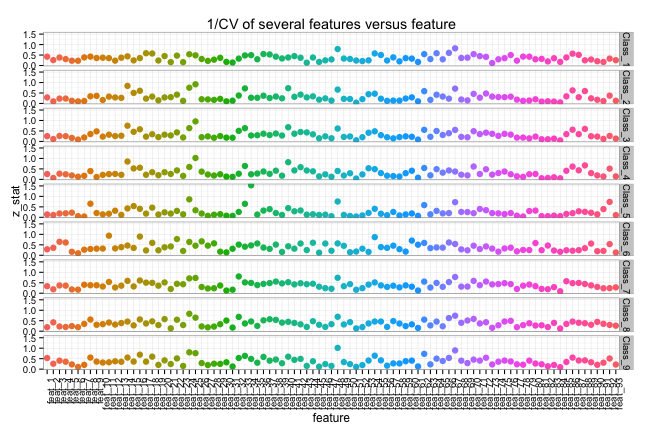
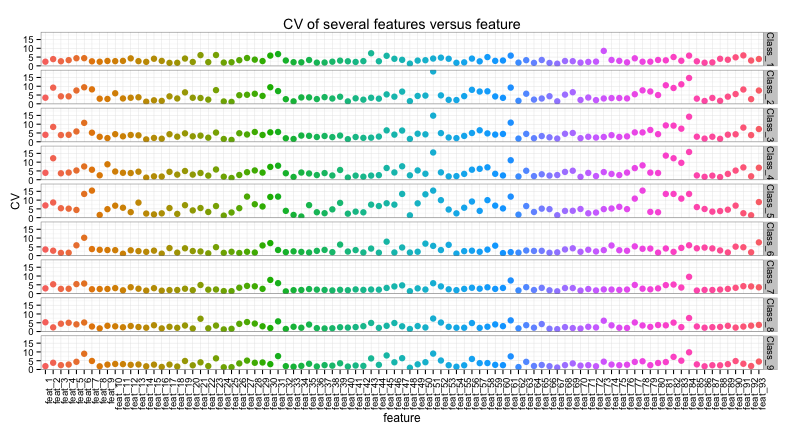
Working thru exploratory

Changed region(s): [[0.0, 0.0301, 0.9877, 0.9931]]

diff --git a/Exploratory Slide Summary.md b/Exploratory Slide Summary.md
@@ -1,0 +1,232 @@
+Product Classification
+========================================================
+transition: rotate
+  
+  
+<br>  
+<br>  
+_Winston Saunders_   
+_April 22, 2015_  
+__Exploratory Summary__
+ 
+
+ <br>
+<small>R version 3.2.0 (2015-04-16)</small>
+
+***
+<br>  
+<br>  
+![alt text](tactical.001.jpg)
+
+
+Grabbing the data
+========================================================
+
+
+
+Data are stored locally on my computer in the directory .
+The train data set has 61878 rows and 95 columns. Here is a sample of a few rows and columns. The target column has 9 classifiers.  
+<small>
+<!-- html table generated in R 3.2.0 by xtable 1.7-4 package -->
+<!-- Thu Apr 30 17:10:51 2015 -->
+<table border=1>
+<tr> <th> id </th> <th> feat_1 </th> <th> feat_2 </th> <th> feat_3 </th> <th> feat_4 </th> <th> feat_5 </th> <th> feat_92 </th> <th> feat_93 </th> <th> target </th>  </tr>
+  <tr> <td align="right">   1 </td> <td align="right">   1 </td> <td align="right">   0 </td> <td align="right">   0 </td> <td align="right">   0 </td> <td align="right">   0 </td> <td align="right">   0 </td> <td align="right">   0 </td> <td> Class_1 </td> </tr>
+  <tr> <td align="right">   2 </td> <td align="right">   0 </td> <td align="right">   0 </td> <td align="right">   0 </td> <td align="right">   0 </td> <td align="right">   0 </td> <td align="right">   0 </td> <td align="right">   0 </td> <td> Class_1 </td> </tr>
+  <tr> <td align="right">   3 </td> <td align="right">   0 </td> <td align="right">   0 </td> <td align="right">   0 </td> <td align="right">   0 </td> <td align="right">   0 </td> <td align="right">   0 </td> <td align="right">   0 </td> <td> Class_1 </td> </tr>
+  <tr> <td align="right">   4 </td> <td align="right">   1 </td> <td align="right">   0 </td> <td align="right">   0 </td> <td align="right">   1 </td> <td align="right">   6 </td> <td align="right">   0 </td> <td align="right">   0 </td> <td> Class_1 </td> </tr>
+   </table>
+</small>  
+The number of elements in each class is not uniform. 
+<small>   
+<!-- html table generated in R 3.2.0 by xtable 1.7-4 package -->
+<!-- Thu Apr 30 17:10:51 2015 -->
+<table border=1>
+<tr> <th> Class_1 </th> <th> Class_2 </th> <th> Class_3 </th> <th> Class_4 </th> <th> Class_5 </th> <th> Class_6 </th> <th> Class_7 </th> <th> Class_8 </th> <th> Class_9 </th>  </tr>
+  <tr> <td align="right"> 1929 </td> <td align="right"> 16122 </td> <td align="right"> 8004 </td> <td align="right"> 2691 </td> <td align="right"> 2739 </td> <td align="right"> 14135 </td> <td align="right"> 2839 </td> <td align="right"> 8464 </td> <td align="right"> 4955 </td> </tr>
+   </table>
+</small> 
+
+
+
+Create data sample
+========================================================
+To get some data for inspection first create a smaller random sample of rows. This just speeds up calculations. 
+
+
+
+> The sampled train_data has 15000 rows and 95 columns. 
+
+<!-- html table generated in R 3.2.0 by xtable 1.7-4 package -->
+<!-- Thu Apr 30 17:10:51 2015 -->
+<table border=1>
+<tr> <th> id </th> <th> feat_1 </th> <th> feat_2 </th> <th> feat_3 </th> <th> feat_4 </th> <th> feat_5 </th> <th> feat_6 </th> <th> target </th>  </tr>
+  <tr> <td align="right"> 9869 </td> <td align="right">   0 </td> <td align="right">   0 </td> <td align="right">   0 </td> <td align="right">   0 </td> <td align="right">   0 </td> <td align="right">   0 </td> <td> Class_2 </td> </tr>
+  <tr> <td align="right"> 29589 </td> <td align="right">   0 </td> <td align="right">   0 </td> <td align="right">   0 </td> <td align="right">   0 </td> <td align="right">   0 </td> <td align="right">   0 </td> <td> Class_5 </td> </tr>
+  <tr> <td align="right"> 47323 </td> <td align="right">   0 </td> <td align="right">   0 </td> <td align="right">   1 </td> <td align="right">   1 </td> <td align="right">   0 </td> <td align="right">   0 </td> <td> Class_7 </td> </tr>
+  <tr> <td align="right"> 47625 </td> <td align="right">   1 </td> <td align="right">   0 </td> <td align="right">   0 </td> <td align="right">   0 </td> <td align="right">   0 </td> <td align="right">   0 </td> <td> Class_7 </td> </tr>
+   </table>
+
+Histograms of Features
+======================================
+
+What does a specific feat look like? Look at histogram of values for feat\_60 for Class\_6
+
+![plot of chunk unnamed-chunk-7](Exploratory Slide Summary-figure/unnamed-chunk-7-1.png) 
+***
+
+![plot of chunk unnamed-chunk-8](Exploratory Slide Summary-figure/unnamed-chunk-8-1.png) 
+
+
+Munging
+=========================================
+For plotting etc. convert data to a "long" format with each observation, characterized by a target class and feature, in one unique row.
+<small>
+
+```r
+## Get packages
+require(plyr); require(ggplot2); require(tidyr)
+## munge data into long format 
+long_train<-gather(train_data, feature, data, feat_1:feat_93)
+```
+
+Note that the dimension of this new data frame 1395000 is equal to 15000 X (95 - 2).
+
+Here is a sample...   (the table has 1395000 rows)
+<!-- html table generated in R 3.2.0 by xtable 1.7-4 package -->
+<!-- Thu Apr 30 17:10:52 2015 -->
+<table border=1>
+<tr> <th> id </th> <th> target </th> <th> feature </th> <th> data </th>  </tr>
+  <tr> <td align="right"> 9869 </td> <td> Class_2 </td> <td> feat_1 </td> <td align="right">   0 </td> </tr>
+  <tr> <td align="right"> 29589 </td> <td> Class_5 </td> <td> feat_1 </td> <td align="right">   0 </td> </tr>
+  <tr> <td align="right"> 47323 </td> <td> Class_7 </td> <td> feat_1 </td> <td align="right">   0 </td> </tr>
+  <tr> <td align="right"> 47625 </td> <td> Class_7 </td> <td> feat_1 </td> <td align="right">   1 </td> </tr>
+   </table>
+</small>  
+First summary
+============================================
+
+Let's look at the means and std deviations of the features by class....
+
+<small>
+
+```r
+## use ddply to get means and standard deviations
+train_morph<-ddply(long_train, c("target", "feature"), summarize, mean_data = mean(data), sdev_data = sqrt(var(data)))
+## calculate coeff of variation (CV)
+## adding small value to prevent overflow errors
+train_morph$CV<-(train_morph$sdev_data)/(train_morph$mean_data+0.001)
+```
+</small>
+
+Inspect train_morph
+======================================
+
+
+```r
+print(xtable(train_morph[1:6,]), type="html",include.rownames = FALSE)
+```
+
+<!-- html table generated in R 3.2.0 by xtable 1.7-4 package -->
+<!-- Thu Apr 30 17:10:53 2015 -->
+<table border=1>
+<tr> <th> target </th> <th> feature </th> <th> mean_data </th> <th> sdev_data </th> <th> CV </th>  </tr>
+  <tr> <td> Class_1 </td> <td> feat_1 </td> <td align="right"> 0.44 </td> <td align="right"> 1.05 </td> <td align="right"> 2.37 </td> </tr>
+  <tr> <td> Class_1 </td> <td> feat_2 </td> <td align="right"> 0.12 </td> <td align="right"> 0.46 </td> <td align="right"> 3.84 </td> </tr>
+  <tr> <td> Class_1 </td> <td> feat_3 </td> <td align="right"> 0.19 </td> <td align="right"> 0.49 </td> <td align="right"> 2.61 </td> </tr>
+  <tr> <td> Class_1 </td> <td> feat_4 </td> <td align="right"> 0.12 </td> <td align="right"> 0.41 </td> <td align="right"> 3.24 </td> </tr>
+  <tr> <td> Class_1 </td> <td> feat_5 </td> <td align="right"> 0.27 </td> <td align="right"> 1.17 </td> <td align="right"> 4.34 </td> </tr>
+  <tr> <td> Class_1 </td> <td> feat_6 </td> <td align="right"> 0.09 </td> <td align="right"> 0.42 </td> <td align="right"> 4.37 </td> </tr>
+   </table>
+
+Let's inspect
+=========================================
+
+<img src="Exploratory Slide Summary-figure/unnamed-chunk-13-1.png" title="plot of chunk unnamed-chunk-13" alt="plot of chunk unnamed-chunk-13" style="display: block; margin: auto;" />
+
+Here is the CV = sd/mean
+
+<img src="Exploratory Slide Summary-figure/unnamed-chunk-14-1.png" title="plot of chunk unnamed-chunk-14" alt="plot of chunk unnamed-chunk-14" style="display: block; margin: auto;" />
+
+>some variation with class, but high CV means noisy correlations!
+
+Another look at the data: CV for each class
+===================================
+
+<img src="Exploratory Slide Summary-figure/unnamed-chunk-15-1.png" title="plot of chunk unnamed-chunk-15" alt="plot of chunk unnamed-chunk-15" style="display: block; margin: auto;" />
+
+This is beginning to look promising. We can see some variation between classes & features, but overall CV is very high and needs to be reduced.
+
+
+</small>  
+Reducing CV
+============================================
+
+Let's try getting rid of all the data that = 0 (assume 0 is a non-entry)
+
+
+```r
+long_train_nz<-long_train[long_train$data>0,]
+```
+
+the size of the original matrix was 1395000 and the size of the new matrix is 288275. So there were a substantial number of zeros!
+
+
+
+<!-- html table generated in R 3.2.0 by xtable 1.7-4 package -->
+<!-- Thu Apr 30 17:10:56 2015 -->
+<table border=1>
+<tr> <th> target </th> <th> feature </th> <th> mean_data </th> <th> sdev_data </th> <th> CV </th>  </tr>
+  <tr> <td> Class_1 </td> <td> feat_1 </td> <td align="right"> 1.79 </td> <td align="right"> 1.43 </td> <td align="right"> 0.80 </td> </tr>
+  <tr> <td> Class_1 </td> <td> feat_2 </td> <td align="right"> 1.38 </td> <td align="right"> 0.85 </td> <td align="right"> 0.61 </td> </tr>
+  <tr> <td> Class_1 </td> <td> feat_3 </td> <td align="right"> 1.25 </td> <td align="right"> 0.53 </td> <td align="right"> 0.42 </td> </tr>
+  <tr> <td> Class_1 </td> <td> feat_4 </td> <td align="right"> 1.30 </td> <td align="right"> 0.46 </td> <td align="right"> 0.36 </td> </tr>
+   </table>
+
+>Note the substantial reduction in CV
+
+Means and CV for all classes
+=========================================
+
+![plot of chunk unnamed-chunk-19](Exploratory Slide Summary-figure/unnamed-chunk-19-1.png) 
+
+Here is the CV = sd/mean
+
+![plot of chunk unnamed-chunk-20](Exploratory Slide Summary-figure/unnamed-chunk-20-1.png) 
+
+>some variation with class, but reduced CV means less noisy correlations!
+
+CV features for each class
+===================================
+
+<img src="Exploratory Slide Summary-figure/unnamed-chunk-21-1.png" title="plot of chunk unnamed-chunk-21" alt="plot of chunk unnamed-chunk-21" style="display: block; margin: auto;" />
+
+This is beginning to look promising. We can see at least some variation between classes & features (though others are weak)
+
+
+Another look
+==================================
+
+The non-zero data with CV < 1.5 shows fair distinguishing of classes.
+
+<img src="Exploratory Slide Summary-figure/unnamed-chunk-22-1.png" title="plot of chunk unnamed-chunk-22" alt="plot of chunk unnamed-chunk-22" style="display: block; margin: auto;" />
+
+
+
+Decision Tree Class1 vs Class2 
+===================================
+
+Decision trees also appear to offer a good way to distinguish.
+
+
+
+
+
+
+
+
+
+
+```
+Error in is.data.frame(data) : object 'train_data_nz' not found
+```
